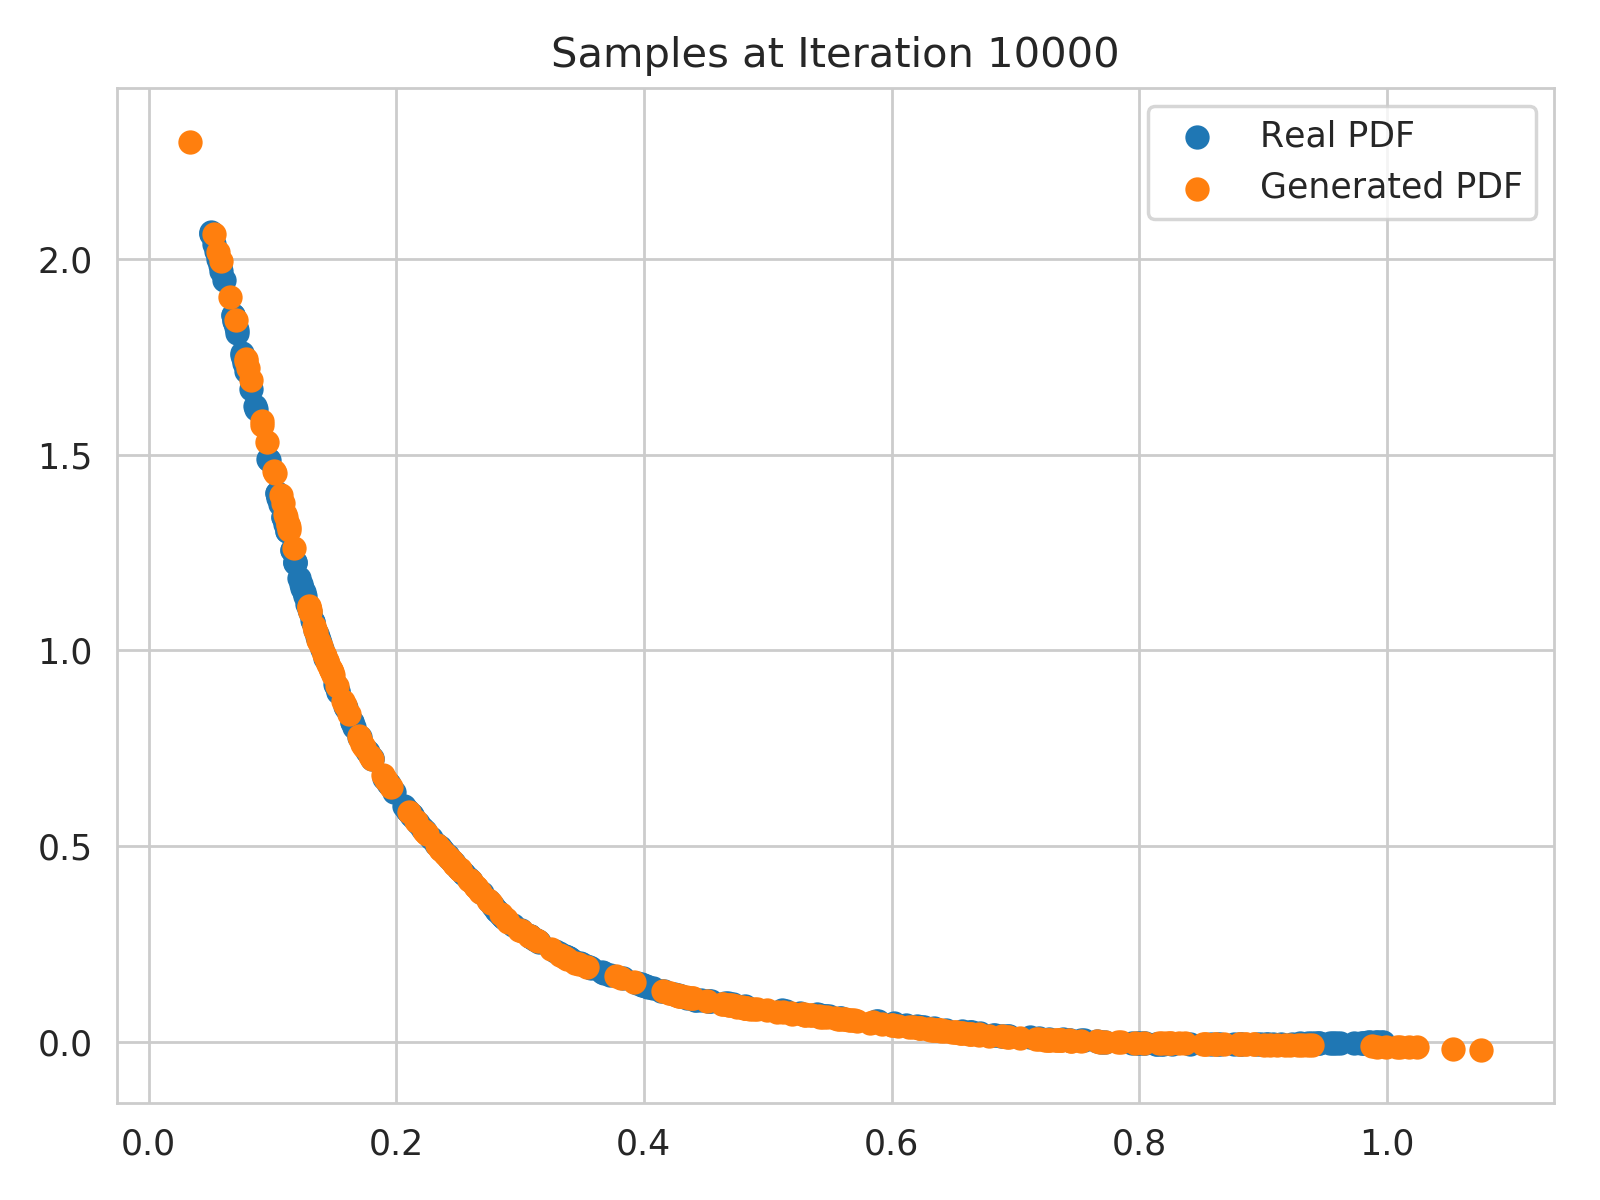
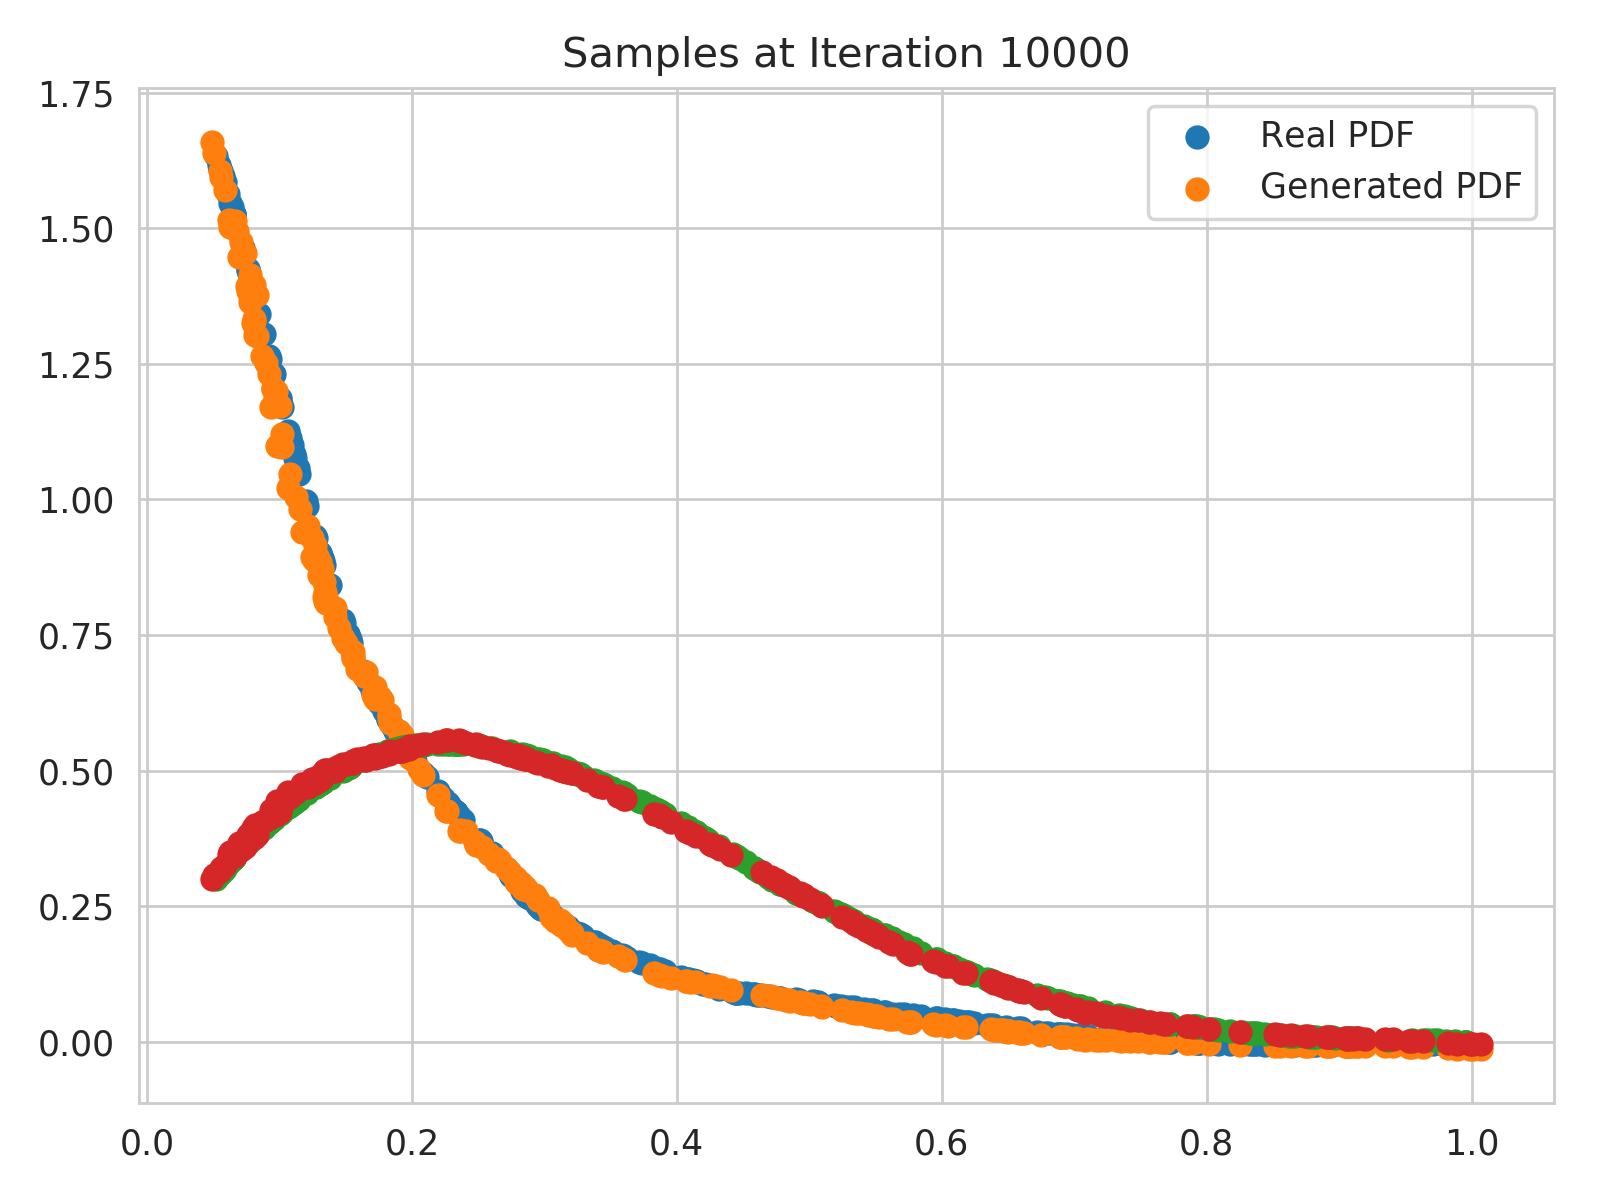
First implementation of two distributions: gluon and valence u_quark

diff --git a/PDFs_Replicas/GANs_Gluon.py b/PDFs_Replicas/GANs_Gluon.py
@@ -17,7 +17,7 @@ print(pdf.description)
 pdf_central = pdf.mkPDF(0)
 
 # Define the scale 
-Q_pdf = 1.5
+Q_pdf = 1.25
 
 # Define a log uniform function
 def loguniform(low=0, high=1, size=None):
@@ -34,8 +34,9 @@ def sample_pdf(n=1000):
     for i in np.random.uniform(0.1,1,n-m): x_pdf.append(i)
     # Construct the sampling
     for x in x_pdf:
-        y_pdf = pdf_central.xfxQ(21,x,Q_pdf)
-        data.append([x,y_pdf])
+        y_pdf1 = pdf_central.xfxQ(21,x,Q_pdf)                               # gluon
+        y_pdf2 = pdf_central.xfxQ(2,x,Q_pdf)-pdf_central.xfxQ(-2,x,Q_pdf)   # valence u_quark
+        data.append([x,y_pdf1,y_pdf2])
     return np.array(data)
 
 # Define the function which samples the Data
@@ -67,7 +68,7 @@ def generator(input_noise, layers_size=hidden,reuse=False):
         L2 = tf.layers.dense(L1,layers_size[1],activation=tf.nn.leaky_relu)
         # Define the output layer with 2 nodes
         # This dimension is correspond to the dimension of the "real dataset"
-        output = tf.layers.dense(L2,2)
+        output = tf.layers.dense(L2,3)
 
     return output
 
@@ -84,7 +85,7 @@ def discriminator(input_true,layers_size=hidden,reuse=False):
         L1 = tf.layers.dense(input_true,layers_size[0],activation=tf.nn.leaky_relu)
         L2 = tf.layers.dense(L1,layers_size[1],activation=tf.nn.leaky_relu)
         # Fix the third layer to 2 nodes so we can visualize the transformed feature space in a 2D plane
-        L3 = tf.layers.dense(L2,2)
+        L3 = tf.layers.dense(L2,3)
         # Define the output layer (logit)
         output = tf.layers.dense(L3,1)
 
@@ -93,9 +94,9 @@ def discriminator(input_true,layers_size=hidden,reuse=False):
 # Adversarial Training
 
 # Initialize the placeholder for the real sample
-X = tf.placeholder(tf.float32,[None,2])
+X = tf.placeholder(tf.float32,[None,3])
 # Initialize the placeholder for the random sample
-Z = tf.placeholder(tf.float32,[None,2])
+Z = tf.placeholder(tf.float32,[None,3])
 
 # Define the Graph which Generate fake data from the Generator and feed the Discriminator
 G_sample = generator(Z)
@@ -134,7 +135,7 @@ numb_training = 10001
 # Training
 for i in range(numb_training):
     X_batch = sample_pdf(n=batch_size)
-    Z_batch = sample_noise(batch_size, 2)
+    Z_batch = sample_noise(batch_size, 3)
 
     # Train independently G&D in multiple steps
     for _ in range(nd_steps):
@@ -156,6 +157,9 @@ for i in range(numb_training):
         plt.figure()
         xax = plt.scatter(x_plot[:,0],x_plot[:,1])
         gax = plt.scatter(g_plot[:,0],g_plot[:,1])
+
+        xaxu = plt.scatter(x_plot[:,0],x_plot[:,2])
+        gaxu = plt.scatter(g_plot[:,0],g_plot[:,2])
 
         plt.legend((xax,gax), ("Real PDF","Generated PDF"))
         plt.title('Samples at Iteration %d'%i)
